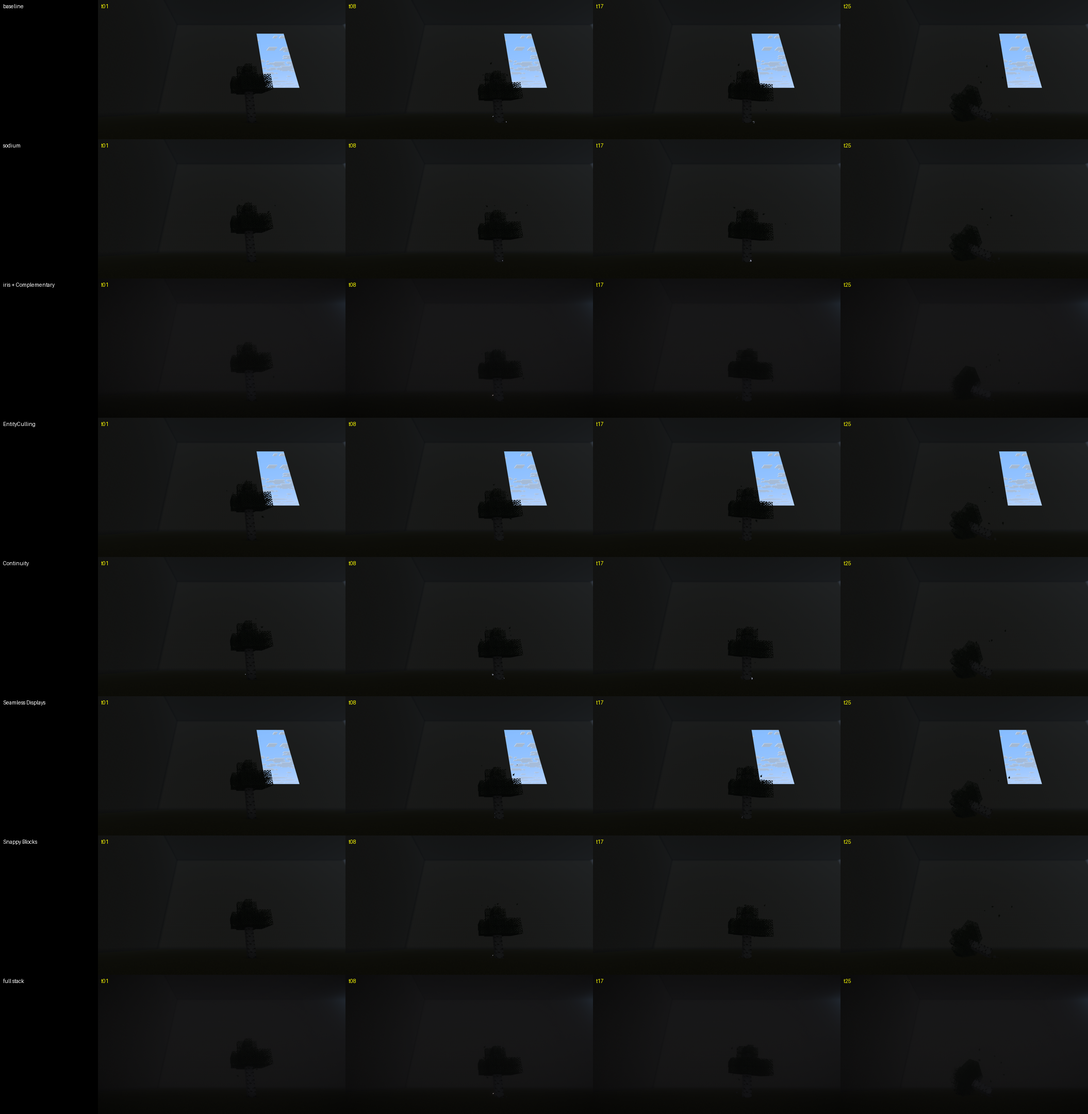
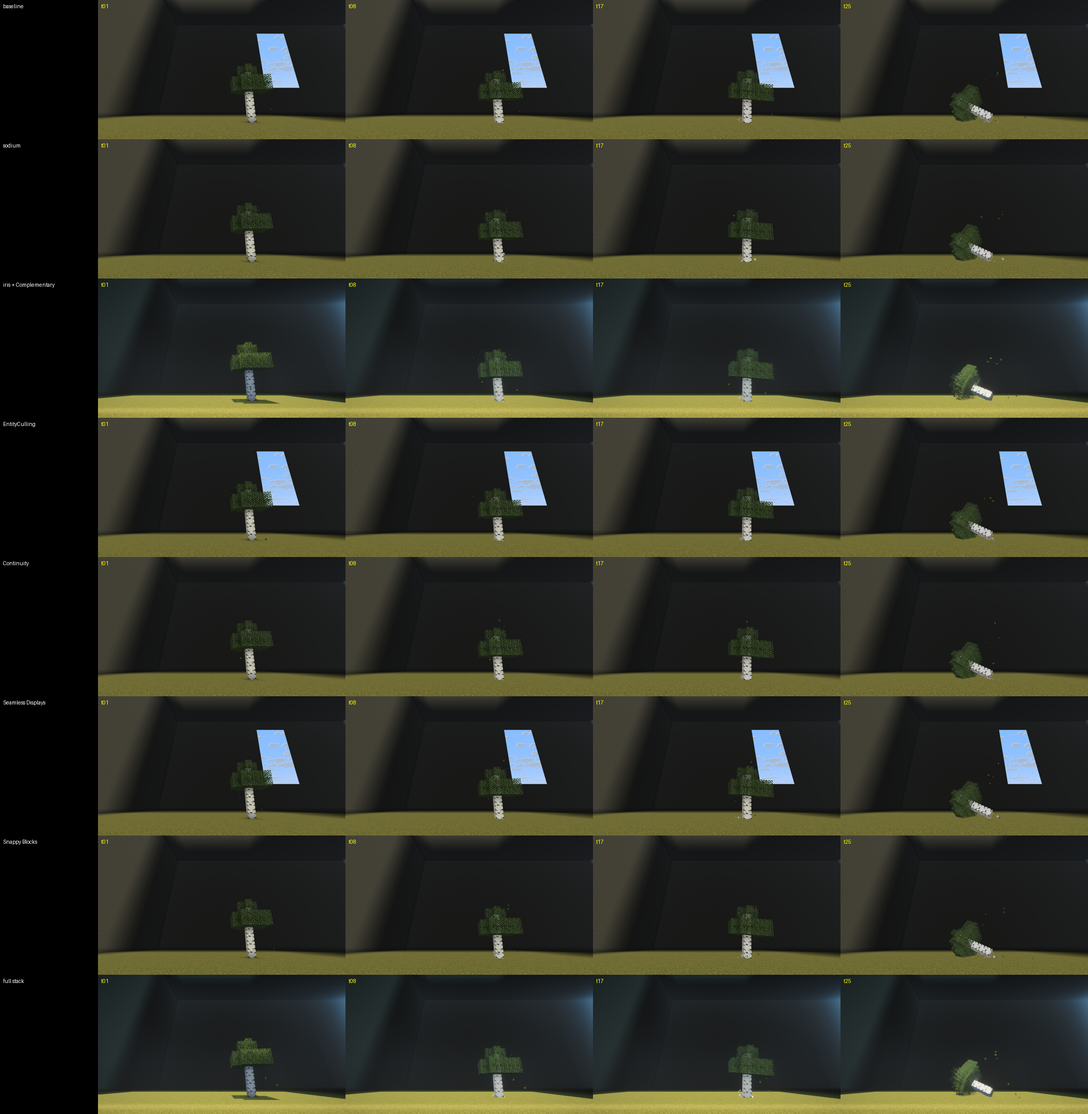
M6: looks settle ticks; 0.0.26

diff --git a/src/main/java/io/github/profetgit/vanillatimber/selftest/Parity.java b/src/main/java/io/github/profetgit/vanillatimber/selftest/Parity.java
@@ -2247,7 +2247,7 @@ final class Parity {
                 cmd("fill " + (cx - 10) + " " + y + " " + (cz - 28) + " " + (cx + 24) + " " + Math.min(y + 23, 319) + " " + (cz + 10) + " minecraft:air");
             // block light in front of the tree for the sets that draw no sun (the pit is deep, so sky light alone stays dim)
             cmd("fill " + at(-10, 0, -6) + " " + at(22, 22, -6) + " minecraft:light[level=15] replace air");
-            tick(10);
+            tick(120);
             hold("minecraft:netherite_axe");
             int dist = Integer.parseInt(t[2]);
             cmd("tp " + who() + " " + (cx + 4) + ".5 " + Y + " " + (cz - dist) + ".5 facing " + (cx + 4) + " " + (Y + 6) + " " + cz);
